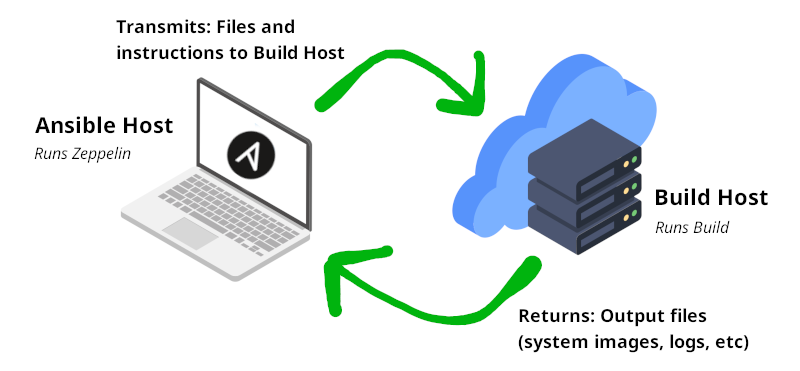
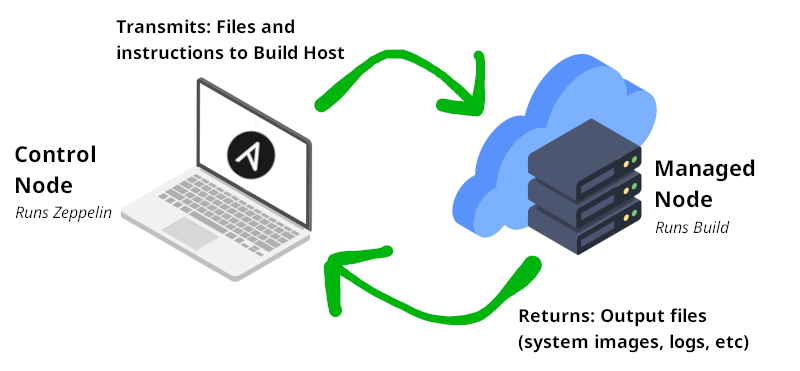
README.md: rephrase asz/ansible terms
Drop the name Zeppelin for asz.

Rephrase some explanations to use the standard ansible terms, control
node and managed node.

Adjust the urls to be named anchors to simplify linking.

diff --git a/README.md b/README.md
@@ -1,43 +1,50 @@
 # asz
 
-Automotive-SIG Zeppelin - Take your automotive-sig builds to the clouds
+Take your automotive-sig builds to the clouds
 
 ## About
 
-Zeppelin is a meta build system for the [Automotive-SIG sample-images][1]
-project with the goal being to enable building customised AutoSD system images
-using the cloud.
+Asz (Automotive-Sig Zeppelin) is a meta build system for the [Automotive-SIG
+sample-images][automotive_sig] project with the goal being to enable building
+customised AutoSD system images using the cloud.
 
-Zeppelin at this time only supports building either locally (on supported
-distros) or on [Hetzner Cloud][2]. Thanks to their current low pricing for
-Ampere vCPUs (at the time of writing), this means being able to assemble
-aarch64 system images without emulation for only a few cents per build!
+Asz at this time supports building either locally (on supported distros) or on
+[Hetzner Cloud][hetzner_cloud] or on [AWS EC2][aws_ec2]. Thanks to Hetzner's
+current low pricing for Ampere vCPUs (at the time of writing), this means being
+able to assemble aarch64 system images without emulation for only a few cents
+per build!
+
+[automotive_sig]: https://sigs.centos.org/automotive/
+[hetzner_cloud]: https://www.hetzner.com/cloud
+[aws_ec2]: https://aws.amazon.com/ec2/
 
 ## Background
 
-The [CentOS Automotive-SIG project][3] provides a Makefile-based build system to
-assemble system-images (with OSBuild). This build system supports configuration
-via both command line parameters and custom yaml snippet files that extend /
-overwrite the default image configuration.
+The [CentOS Automotive-SIG project][sample_images] provides a Makefile-based
+build system to assemble system-images (with OSBuild). This build system
+supports configuration via both command line parameters and custom yaml snippet
+files that extend / overwrite the default image configuration.
 
-The aim of Zeppelin is to add (yet another) abstraction layer to operate that
+The aim of asz is to add (yet another) abstraction layer to operate that
 Makefile-based build system with the intended benefits of simplifying the
 management of the configurations and abstracting out the host builder set up
 (allowing you to transparently build in the cloud or locally with no change in
 the build-system entrypoint).
 
-For now, Zeppelin aims to focus on building with the [Hetzner Cloud][2]. Support
-for more cloud providers and other potential build hosts will be added in the
-future.
+For now, asz aims to focus on building with the [Hetzner Cloud][hetzner_cloud].
+Support for more cloud providers and other potential build hosts will be added
+in the future.
+
+[sample_images]: https://sigs.centos.org/automotive/building/#using-makefile-to-build-the-image
 
 ## How It Works
 
-Zeppelin is a simple set of Ansible playbooks and roles with a configuration
-file to control the build process. The playbooks are run on an Ansible host
-machine (typically the developer machine). The playbooks can set up a build
-host machine (eg. instantiate a machine in Hetzner Cloud), run the build
-instructions remotely on the build host machine, and gather the output files
-back to the Ansible Host local filesystem.
+asz is a simple set of Ansible playbooks and roles with a configuration file to
+control the build process. The playbooks are run on an Ansible control node
+(typically the developer machine). The playbooks can spawn and set up a managed
+node (eg. instantiate a machine in Hetzner Cloud), run the build instructions
+remotely on the managed node, and gather the output files back to the control
+node local filesystem to preserve before terminating the managed node.
 
 ![zeppelin-diagram](/docs/images/zeppelin-diagram.png)
 
@@ -45,17 +52,17 @@ This is a workflow which on the surface appears like a developer is running the
 system images assembly locally when actually it will transparently be processed
 in the cloud.
 
-While the main example case is using the cloud as a source of build hosts,
-the build host could also be the local Ansible host itself or another available
-networked machine like a Raspberry Pi. Any host that Ansible can provision,
-set up, and use to execute build instructions is viable with Zeppelin.
+While the main example case is using the cloud as a source of build hosts, the
+build host could also be the local control node itself or another available
+networked machine like a Raspberry Pi. Any managed node that Ansible can
+provision, set up, and use to execute build instructions is viable with asz.
 
-The Ansible host machine also need not always be the developer machine. Another
-use case of Zeppelin is running system-image assembly in a CI/CD workflow. There
-the Ansible host machine would be the pipeline runner that executes the CI/CD
-workflow (eg. GitHub runner). This could be useful to avoid needing Arm64
-machines in the pipeline execution (which for example is not available
-as a public GitHub runners) and aligning CI workflows with developer workflows.
+The control node also need not always be the developer machine. Another use case
+of asz is running system-image assembly in a CI/CD workflow. There the control
+node would be the pipeline runner that executes the CI/CD workflow (eg. GitHub
+runner). This could be useful to avoid needing Arm64 machines in the pipeline
+execution (which for example is not available as a public GitHub runners) and
+aligning CI workflows with developer workflows.
 
 <a href="https://www.flaticon.com/free-icons/productivity" title="productivity icons">Productivity icons created by vectorsmarket15 - Flaticon</a>
 
@@ -63,26 +70,29 @@ as a public GitHub runners) and aligning CI workflows with developer workflows.
 
 ## Requirements
 
-Since Zeppelin is based on Ansible, you must have it installed on the computer
-that starts the build process (aka your personal computer). Typically you can
+Since asz is based on Ansible, you must have it installed on the control node
+that manages the build process (aka your personal computer). Typically you can
 install Ansible with pip.
 
 ```
 python3 -m pip install --user ansible
 ```
 
-You can find out more [here][4] on how to install it.
+You can find out more [here][ansible_install] on how to install it.
 
 In addition to having installed ansible, you need the [community.general
-Ansible collection][5] installed also.
+Ansible collection][ansible_collections] installed also.
 
 ```
 ansible-galaxy collection install community.general
 ```
 
+[ansible_install]: https://docs.ansible.com/ansible/latest/installation_guide/intro_installation.html#installing-and-upgrading-ansible
+[ansible_collectons]: https://galaxy.ansible.com/community/general
+
 ## Configuration
 
-The build host and system-image target build configuration is defined in
+The managed node and system-image target build configuration is defined in
 `config.yaml`. This yaml file is loaded by the different roles to dynamically
 configure them at runtime.
 
@@ -96,15 +106,15 @@ configure the system image build target:
 - target_arch
 - target_filetype
 
-These variables align with the [Automotive-SIG Makefile targets][3] so you can
-refer to their documentation for details.
+These variables align with the [Automotive-SIG Makefile targets][sample_images]
+so you can refer to their documentation for details.
 
 In the future there will be a simple `configure.sh` to help generate this
 configuration yaml.
 
 ## Usage
 
-Zeppelin supports a variety of use cases and configuration/instructons differ
+asz supports a variety of use cases and configuration/instructons differ
 for each. Details for each use case can be found in the linked documents.
 
 - [Running builds locally](docs/building-locally.md)
@@ -114,15 +124,15 @@ for each. Details for each use case can be found in the linked documents.
 
 Some common scenarios are also documented:
 
-- [How can I run Zeppelin locally with a modified sample-images repository?][faq1]
-- [How can I run Zeppelin locally with a modified custom-images repository?][faq2]
+- [How can I run asz locally with a modified sample-images repository?][faq1]
+- [How can I run asz locally with a modified custom-images repository?][faq2]
 
 [faq1]: /docs/faq/modified-sample-images.md
 [faq2]: /docs/faq/modified-custom-images.md
 
 ## Output Directory
 
-Zeppelin will create a directory named `out` in your current working directory
+asz will create a directory named `out` in your current working directory
 where `ansible-playbook` was called.
 
 This `out` directory will be populated during the build process with the log
@@ -140,9 +150,3 @@ scripts may be added to the resulting directory.
 ## License
 
 This project is licensed under the MIT license (see LICENSE file).
-
-[1]: https://sigs.centos.org/automotive/
-[2]: https://www.hetzner.com/cloud
-[3]: https://sigs.centos.org/automotive/building/#using-makefile-to-build-the-image
-[4]: https://docs.ansible.com/ansible/latest/installation_guide/intro_installation.html#installing-and-upgrading-ansible
-[5]: https://galaxy.ansible.com/community/general
